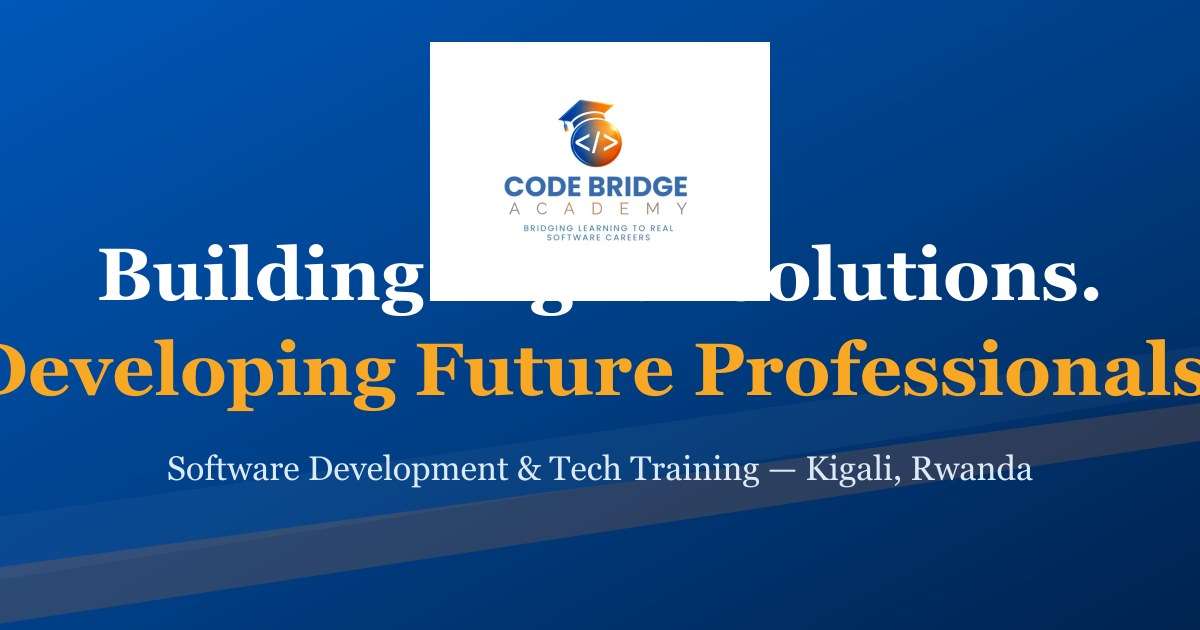
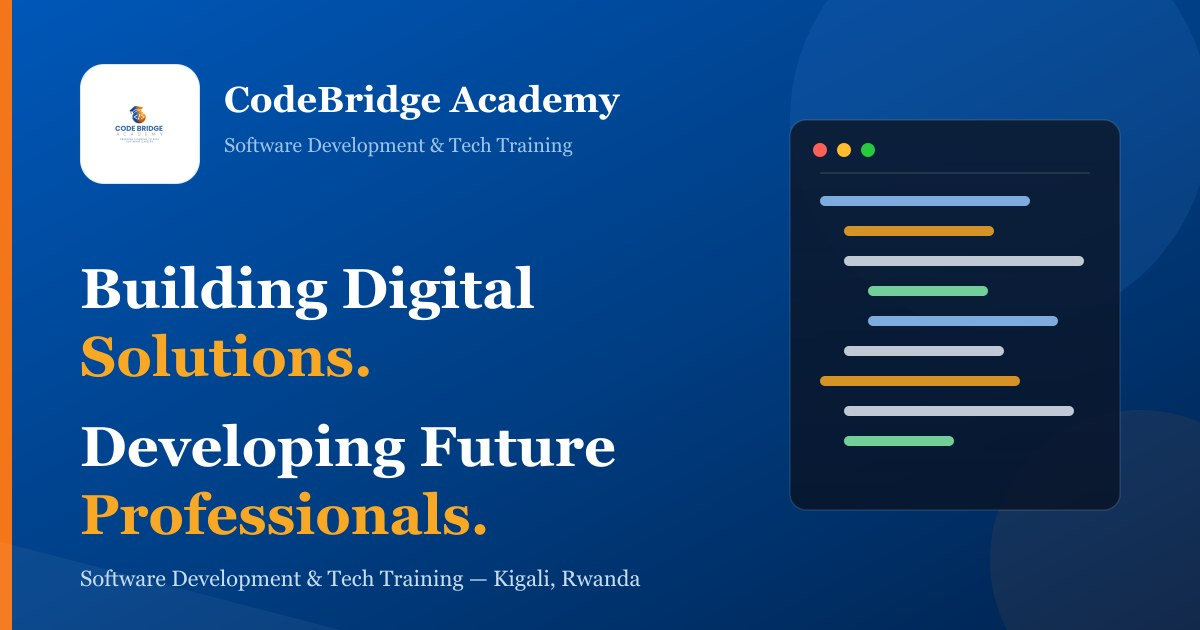
content: redesign og-image social preview
Logo moves onto a white chip card for legibility, two-tone serif
headline mirrors the hero, and a decorative code-editor panel fills
the right side. Still 1200x630, ~81KB. Generator script is now
allowlisted in .gitignore and committed.

🤖 Generated with Codebuff

diff --git a/scripts/generate-og-image.js b/scripts/generate-og-image.js
@@ -1,0 +1,127 @@
+#!/usr/bin/env node
+/**
+ * generate-og-image.js — builds assets/images/og-image.jpg (1200x630)
+ * the social preview image for Open Graph / Twitter cards.
+ *
+ * Design notes:
+ * - sharp renders SVG via librsvg with no network access, so text uses
+ *   system serif fonts (Georgia) — NOT the site webfonts.
+ * - The logo is a wide 886x675 mark; it sits on a white rounded chip
+ *   so it stays legible on the dark gradient.
+ *
+ * Re-run only when the og image needs to change:
+ *   node scripts/generate-og-image.js
+ */
+const sharp = require('sharp');
+const path = require('path');
+
+const WIDTH = 1200;
+const HEIGHT = 630;
+
+async function main() {
+  const logoWebp = path.join(__dirname, '..', 'assets', 'images', 'update_logo.webp');
+  const out = path.join(__dirname, '..', 'assets', 'images', 'og-image.jpg');
+
+  // Code-panel lines: [indent, width, color]
+  const codeLines = [
+    [0, 210, '#93C5FD'],
+    [24, 150, '#F9A825'],
+    [24, 240, '#E2E8F0'],
+    [48, 120, '#86EFAC'],
+    [48, 190, '#93C5FD'],
+    [24, 160, '#E2E8F0'],
+    [0, 200, '#F9A825'],
+    [24, 230, '#E2E8F0'],
+    [24, 110, '#86EFAC'],
+  ].map(([indent, w, color], i) => {
+    const y = 196 + i * 30;
+    return `<rect x="${820 + indent}" y="${y}" width="${w}" height="10" rx="5" fill="${color}" opacity="0.85"/>`;
+  }).join('\n      ');
+
+  // 1. Background scene (everything except the raster logo)
+  const base = Buffer.from(
+    `<svg width="${WIDTH}" height="${HEIGHT}" xmlns="http://www.w3.org/2000/svg">
+      <defs>
+        <linearGradient id="g" x1="0%" y1="0%" x2="100%" y2="100%">
+          <stop offset="0%" stop-color="#0057B8"/>
+          <stop offset="55%" stop-color="#003D82"/>
+          <stop offset="100%" stop-color="#00234F"/>
+        </linearGradient>
+        <linearGradient id="panel" x1="0%" y1="0%" x2="0%" y2="100%">
+          <stop offset="0%" stop-color="#0B1B33" stop-opacity="0.92"/>
+          <stop offset="100%" stop-color="#081428" stop-opacity="0.85"/>
+        </linearGradient>
+      </defs>
+      <rect width="${WIDTH}" height="${HEIGHT}" fill="url(#g)"/>
+
+      <!-- soft glow behind code panel -->
+      <circle cx="1000" cy="120" r="210" fill="#60A5FA" opacity="0.10"/>
+      <circle cx="1140" cy="560" r="150" fill="#F3761A" opacity="0.08"/>
+
+      <!-- orange brand spine -->
+      <rect x="0" y="0" width="12" height="${HEIGHT}" fill="#F3761A"/>
+
+      <!-- diagonal accent, bottom-left -->
+      <path d="M0 ${HEIGHT * 0.86} L340 ${HEIGHT} L0 ${HEIGHT} Z" fill="#FFFFFF" opacity="0.05"/>
+
+      <!-- logo chip card (logo raster composited on top of this) -->
+      <rect x="80" y="64" width="120" height="120" rx="24" fill="#FFFFFF"/>
+      <rect x="80" y="64" width="120" height="120" rx="24" fill="none" stroke="#0057B8" stroke-opacity="0.15" stroke-width="2"/>
+
+      <!-- brand name beside chip -->
+      <text x="224" y="112" font-family="Georgia, 'Times New Roman', serif"
+            font-size="36" font-weight="700" fill="#FFFFFF">CodeBridge Academy</text>
+      <text x="224" y="152" font-family="Georgia, 'Times New Roman', serif"
+            font-size="20" fill="#9FC3E8">Software Development &amp; Tech Training</text>
+
+      <!-- headline (two-tone, mirrors the hero) -->
+      <text x="80" y="308" font-family="Georgia, 'Times New Roman', serif"
+            font-size="56" font-weight="700" fill="#FFFFFF">Building Digital</text>
+      <text x="80" y="376" font-family="Georgia, 'Times New Roman', serif"
+            font-size="56" font-weight="700" fill="#F9A825">Solutions.</text>
+      <text x="80" y="466" font-family="Georgia, 'Times New Roman', serif"
+            font-size="56" font-weight="700" fill="#FFFFFF">Developing Future</text>
+      <text x="80" y="534" font-family="Georgia, 'Times New Roman', serif"
+            font-size="56" font-weight="700" fill="#F9A825">Professionals.</text>
+
+      <!-- supporting line -->
+      <text x="80" y="586" font-family="Georgia, 'Times New Roman', serif"
+            font-size="22" fill="#C7DBF3">Software Development &amp; Tech Training — Kigali, Rwanda</text>
+
+      <!-- decorative code editor panel -->
+      <rect x="790" y="120" width="330" height="390" rx="16" fill="url(#panel)" stroke="#FFFFFF" stroke-opacity="0.12" stroke-width="1.5"/>
+      <circle cx="820" cy="150" r="7" fill="#FF5F56"/>
+      <circle cx="844" cy="150" r="7" fill="#FFBD2E"/>
+      <circle cx="868" cy="150" r="7" fill="#27C93F"/>
+      <rect x="820" y="172" width="270" height="2" rx="1" fill="#FFFFFF" opacity="0.10"/>
+      ${codeLines}
+    </svg>`
+  );
+
+  // 2. Logo (WebP) fitted inside the 120px chip with padding
+  const logo = await sharp(logoWebp)
+    .resize(88, 88, { fit: 'inside' })
+    .png()
+    .toBuffer();
+
+  // 3. Compose: background scene + logo on the chip
+  const logoMeta = await sharp(logo).metadata();
+  await sharp(base)
+    .composite([
+      {
+        input: logo,
+        left: 80 + Math.round((120 - logoMeta.width) / 2),
+        top: 64 + Math.round((120 - logoMeta.height) / 2),
+      },
+    ])
+    .jpeg({ quality: 88 })
+    .toFile(out);
+
+  const outMeta = await sharp(out).metadata();
+  console.log(`✔ assets/images/og-image.jpg — ${outMeta.width}x${outMeta.height}`);
+}
+
+main().catch((err) => {
+  console.error(err);
+  process.exit(1);
+});
